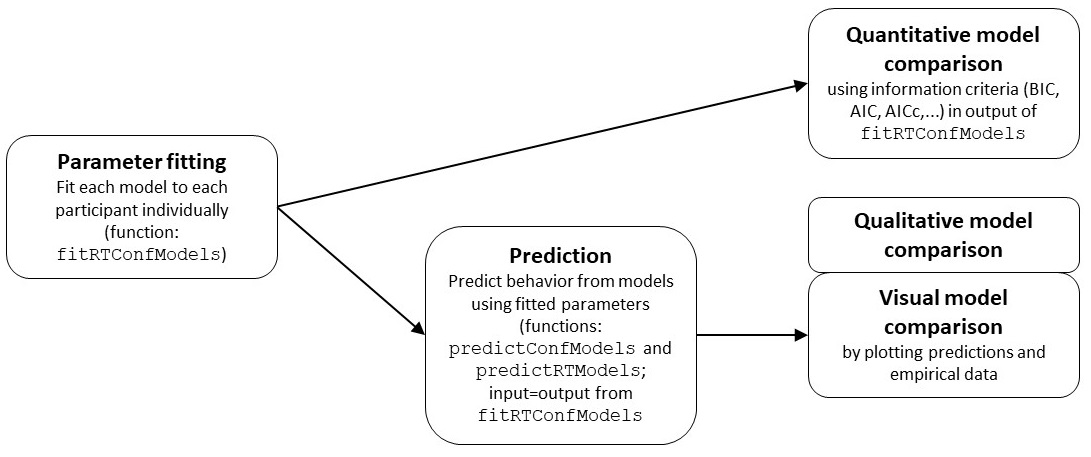
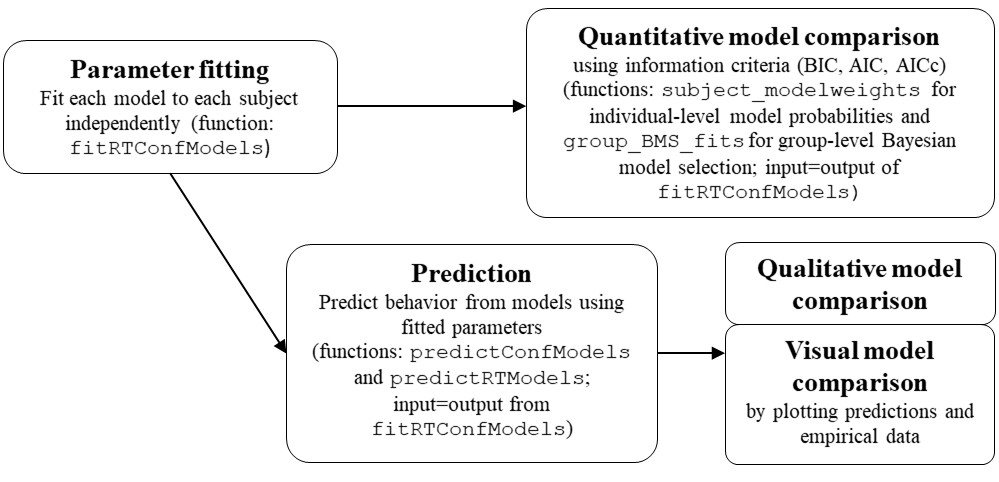
Updated News, Description and Readme

diff --git a/README.md b/README.md
@@ -146,6 +146,20 @@ head(fitted_pars)
     ## 30 1862.12 NA  NA    NA
     ## 31 1334.68 NA  NA    NA
 
+### Quantitative Model Comparison
+
+The output of the fitting function includes different information
+criteria, which could be used for a quantitative model comparison
+(namely: BIC, AIC, and AICc). The package also offers functions to
+conduct the quantitative comparison either on the level of single
+individuals or on a group level. For the individual level, the function
+`subject_modelweights` computes individual model weights for all fitted
+models directly from the output of the fitting function. Similarly, for
+a group-level comparison, the function `group_BMS_fits` directly uses
+the output of the fitting function and conducts a group-level Bayesian
+model selection based on a random effects model of model prevalence
+across subjects (Rigoux et al., 2014).
+
 ### Prediction
 
 For prediction the functions `predictConf` and `predictRT` are used,
@@ -234,8 +248,13 @@ Influenced by Evidence Accumulation Time in Dynamical Decision Models.
 Comput Brain Behav 7, 287–313. doi:
 [10.1007/s42113-024-00205-9](https://doi.org/10.1007/s42113-024-00205-9)
 
+Rigoux, L., Stephan, K. E., Friston, K. J., & Daunizeau, J. (2014).
+Bayesian model selection for group studies - revisited. NeuroImage, 84,
+971–985. doi:
+[10.1016/j.neuroimage.2013.08.065](https://doi.org/10.1016/j.neuroimage.2013.08.065)
+
 ## Contact
 
 For comments, remarks, and questions please contact me:
-<sebastian.hellmann@ku.de> or [submit an
+<sebastian.hellmann@tum.de> or [submit an
 issue](https://github.com/SeHellmann/dynConfiR/issues).

diff --git a/NEWS.md b/NEWS.md
@@ -1,8 +1,9 @@
-# dynConfiR 1.0.0 (June 2024)
+# dynConfiR 1.0.0 (May 2025)
 - change in the precision argument for all models. It is now an integer argument representing the approximate precision of the density in digits. Default is 6 for all models in the density functions.
 - Added precision argument in the fitting functions. With default to 3
 - renamed the DDMConf model to DDConf to align with published literature
 - renamed the functions for dynaViTE model (ddynaViTE and rdynaViTE);
+- Added functions for quantitative model comparison (see `?group_BMS?`)
 - the functions dWEV and rWEV will be kept for now but maybe removed in future releases of the package, they will produce a deprecation warning now
 - Minor changes: 
   - Bug fix in fitting Race Models with time-dependend confidence variable. Before, the weight 'wrt' was bound from above by the weight 'wx' because of a bug. 
